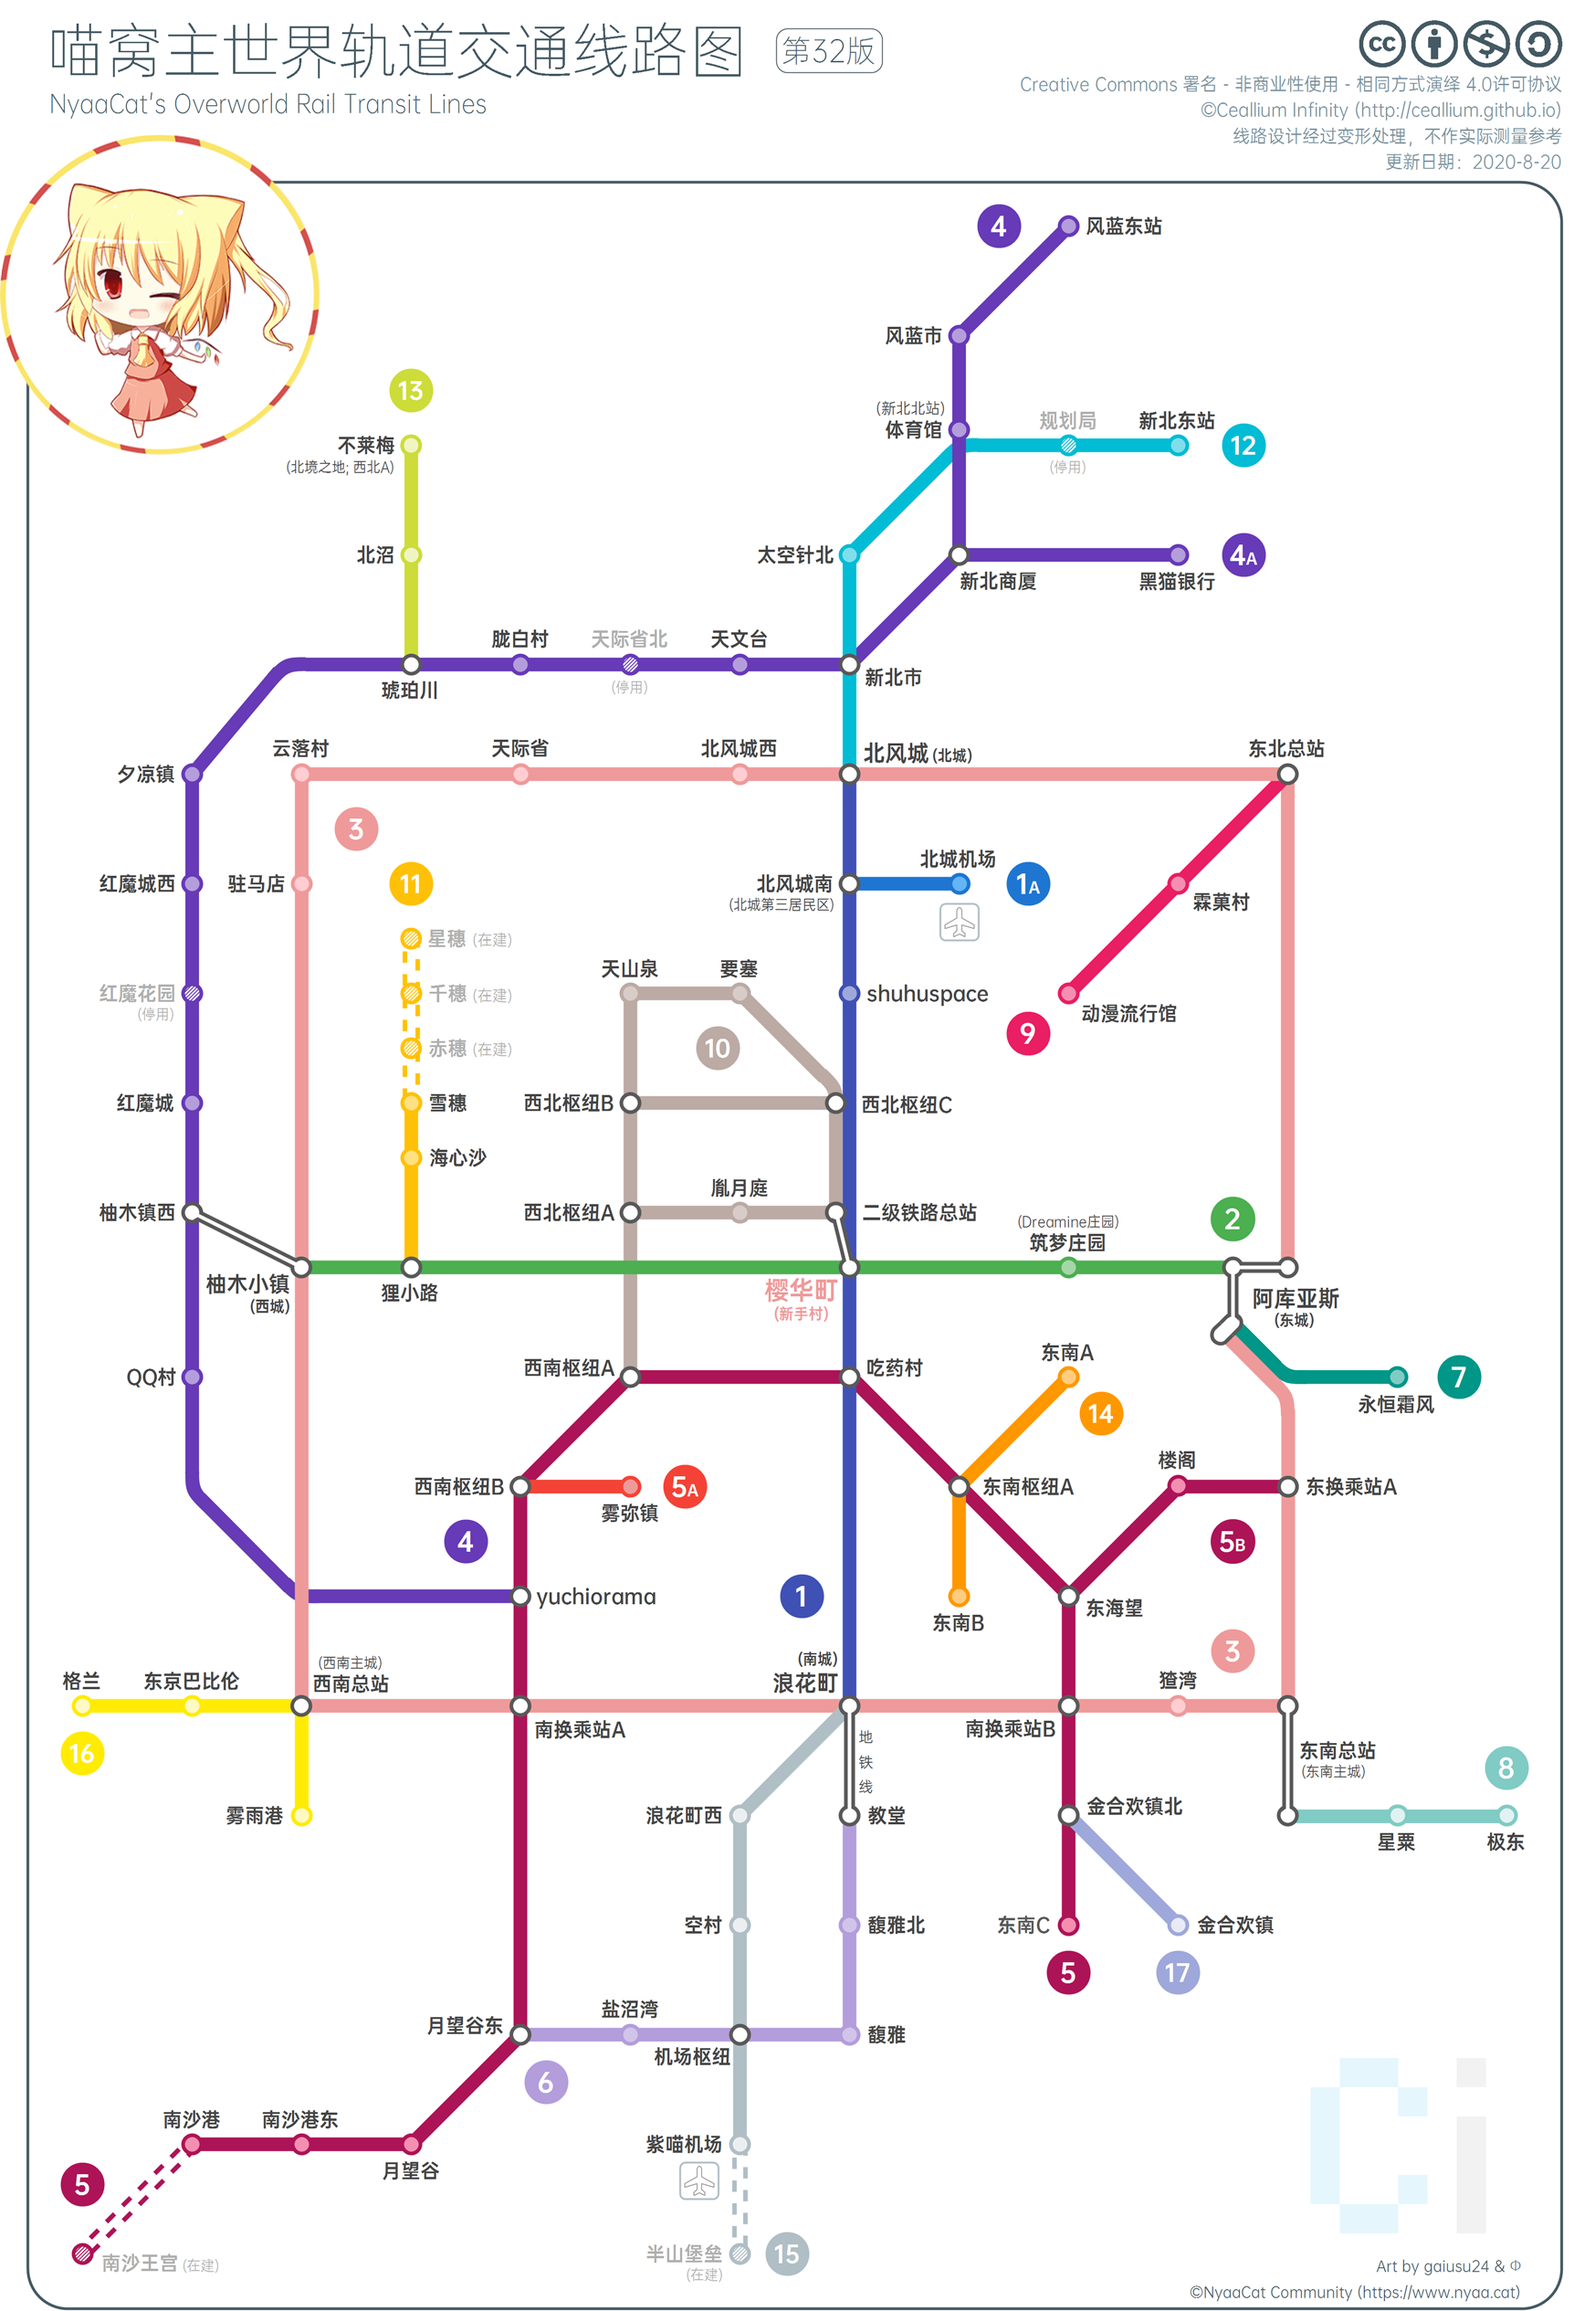
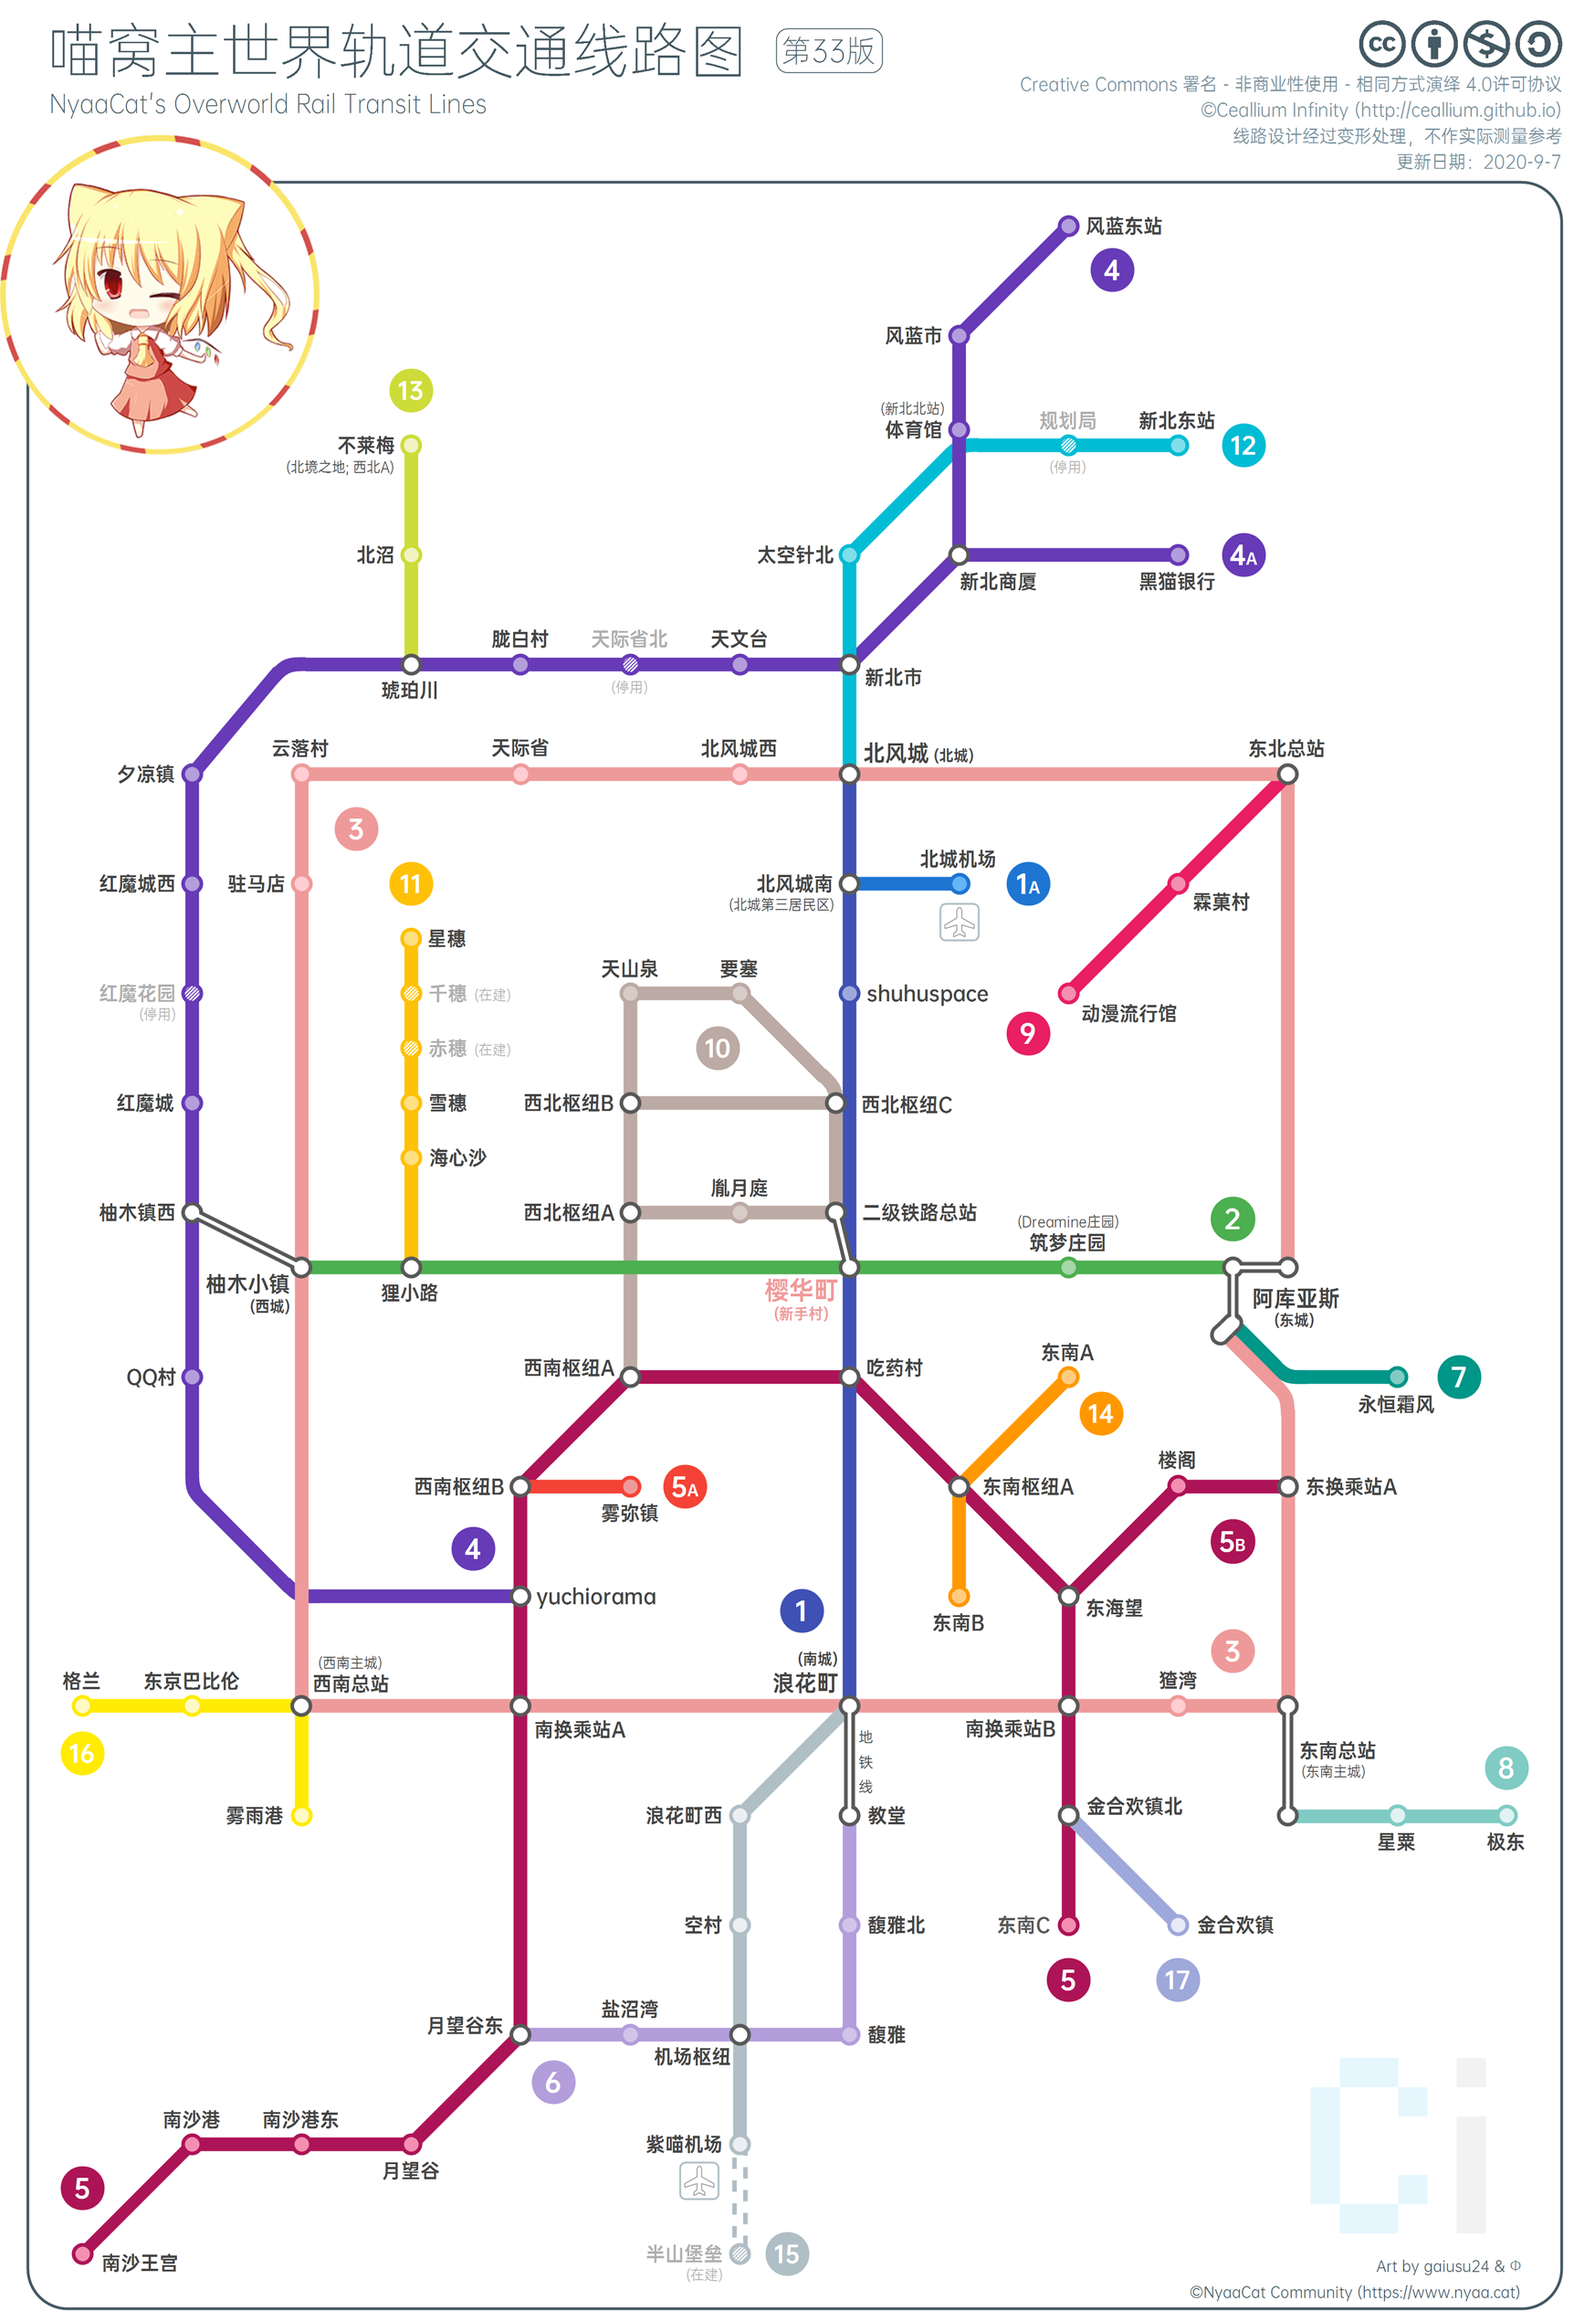
UPDATE Hi-tech Industries, LockettePro, Railway maps Update HTI's map to Rev. September 2020, also fix some details Update Ceallium's Overworld map to Rev. 33 Non-oak signs can be used as locks by pre-editing

diff --git a/nyaa/realms/hitech-industries.md b/nyaa/realms/hitech-industries.md
@@ -31,8 +31,8 @@
 提供可再生能源（海带）的自动生产和输出
 
 - *原名：市政管理中心*  
-- 位置：*`(-7793, 4558)`*
-- 设备建造：*胡萝卜`RDCarrot`*
+- 位置： *`(-7793, 4558)`*
+- 设备建造： *胡萝卜`RDCarrot`*
 - 使用指南：第 4 层收集并烘干海带；第 6~13 层生产海带。
   - 产出的干海带与（原）海带自动装盒，自行取用，建议整盒取用时补充空盒。
 - 维护：
@@ -43,7 +43,7 @@
 NxN 核自动熔炉/烟熏炉/高炉机
 
 - *原名：霍尔集团大楼*
-- 位置：*`(-7730, 4620)`*
+- 位置： *`(-7730, 4620)`*
 - 设备建造：*日酱 `Skill_Sun`*
 - 使用指南：
   - 一层入口处有楼层指示；烟熏炉与高炉分别对特定物品的烧制有加速效果，请自行查阅 Minecraft Wiki 以选择合适的楼层。
@@ -59,7 +59,7 @@ NxN 核自动熔炉/烟熏炉/高炉机
 六联刷铁机
 
 - *原名：莫霍伊大厦*
-- 位置：*`(-7764, 4668)`*
+- 位置： *`(-7764, 4668)`*
 - 设备建造：*日酱 `Skill_Sun`*
 - 使用指南：
   - 在一层或二层均可挂机；一楼仓储有收集的铁锭和红花，请自行取用。
@@ -74,20 +74,20 @@ NxN 核自动熔炉/烟熏炉/高炉机
 #### 综合农业生产基地
 
 - *原名：米兰达大厦*
-- 位置：*`(-7765, 4623)`*
+- 位置： *`(-7765, 4623)`*
 - 用于生产常规农作物。**当前暂未开发。**
 
 #### 综合生物生产基地
 
 - *原名：格雷大厦 A 座*
-- 位置：*`(-7869, 4659)`*
+- 位置： *`(-7869, 4659)`*
 - 用于建设各种生物来源的自动生产设施。一层为大厅和仓储，二层以上自行规划建设产能设施。   
   当前设有：
   -  二层：简易羊毛自动生产装置。
 
 ##### 简易羊毛自动生产装置
 
-- 设备建造：*`CitingNutria`*
+- 设备建造： *`CitingNutria`*
 - 使用说明：设备西侧收集箱子内收集羊毛，请自行取用。
 - 维护：
   - 剪刀补充：像发射器上方的漏斗中补充剪刀。
@@ -95,7 +95,7 @@ NxN 核自动熔炉/烟熏炉/高炉机
 #### 粘液科技大厦
 
 - *原名：格雷大厦 B 座*
-- 位置：*`(-7808, 4605)`*
+- 位置： *`(-7808, 4605)`*
 - 用于生产粘液球。**当前暂未开发。**
 
 #### 综合生产基地
@@ -103,7 +103,7 @@ NxN 核自动熔炉/烟熏炉/高炉机
 小型自动化生产设施，例如铁轨复制机、地毯机等
 
 - *原名：城市规划总署*  
-- 位置：*`(-7769, 4550)`*
+- 位置： *`(-7769, 4550)`*
 - 设备建造：*蘑菇牛 `Nekotora_0w0`*
 - 使用说明：
   - ~铁轨复制机：拉下拉杆开始刷铁轨，离开时请关闭；对应的箱子收集产出的铁轨请自行取用。~
@@ -116,7 +116,7 @@ NxN 核自动熔炉/烟熏炉/高炉机
 村民繁殖基地、交易所
 
 - *原名：曲奇饼*  
-- 位置：*`(-7684, 4596)`*
+- 位置： *`(-7684, 4596)`*
 - 设备建造：*日酱 `Skill_Sun`*，*`etwxr9`*（打折系统）
 - 使用指南：
   - 村民交易所和打折系统位于顶层，繁殖机位于地下，由四个支柱的水电梯上下。
@@ -132,7 +132,7 @@ NxN 核自动熔炉/烟熏炉/高炉机
 
 全窝最大甘蔗田。为节约服务器资源，全自动收割方案被摒弃，转而采用按需启动的联合收割机。
 
-- 位置：*`(-7692, 4507)`*
+- 位置： *`(-7692, 4507)`*
 - 建造：*恋恋`Nekoishi_`*
 - 使用说明
   1. 检查：收割机停止工作时，手动开关应当处于关闭 [power=false] 状态，飞行器应当停靠于甘蔗农场东侧的墙面；如果不是请勿开启，并联系维护者。
@@ -144,25 +144,24 @@ NxN 核自动熔炉/烟熏炉/高炉机
 
 四联刷怪笼刷怪塔。生产苦力怕、女巫、骷髅之主要战利品以及甘蔗。
 
-- 位置：*`(-7659, 4495)`*
+- 位置： *`(-7659, 4495)`*
 - 建造：*琪露喵`Cirneko`* ， *`CitingNutria`* ， *日酱`Skill_Sun`*
 - 使用指南：
   当前设施前门封闭，由一条爬梯 `(-7665,4508)` 下行进入设施内部。地面灯黑，注意安全。  
   挂机最佳地点在主管道周围的手动杀怪点。  
   拉杆开关控制切换自动模式/手动模式；离开时请切换回自动模式。  
 
-#### 猪人塔
+#### 核电站
 
-生产腐肉、金粒及经验球；主世界获取经验最快的场所。
+按照*《命令与征服：红色警戒 3》*中的盟军发电厂，等比例建造的巨型建筑。  
+目前其作为**猪人塔**使用，生产腐肉、金粒及经验球，也是主世界获取经验最快的场所。
 
-- 位置：特区东北边界处 *`(-7297, 4144)`*。  
-- 当前维护者：`Coco`
-
-!> 猪人塔正在整修，当前暂不开放。
+- 位置：特区东部 *`(-7490, 4540)`*
+- 当前维护者：`RDCarrot` `CitingNutria`
 
 #### 狸氏仓储中心
 
-- 位置：*`(-7807, 4768)`*
+- 位置： *`(-7807, 4768)`*
 - 原材料存储、输入和输出。**当前建造中。**
 
 #### 自动化刷石机、木材厂模型
@@ -171,6 +170,10 @@ NxN 核自动熔炉/烟熏炉/高炉机
 - ~~当前已复制到 EpicWorld 出生点西南处 `(-410, 706)`；当地可正常生产，提供**圆石及各种木材（除黑橡木以外）。**~~
 
 !> 出于节约服务器算力的考量，目前推荐在北风城使用「一文大钱」[兑换各种木材](space/npc?id=固定-npc)。
+
+#### 咪乐福
+
+暂无特别用途。
 
 ### 科技特区外公用工业生产设施
 
@@ -210,11 +213,12 @@ NxN 核自动熔炉/烟熏炉/高炉机
 - - -
 ## 在这里，你还可以……
 #### 剿匪！
-受基因研究所影响，特区东部广大沙漠中，时而有一至三支**掠夺者巡逻队**入侵。在确保自身安全的前提下，你可以出城巡逻剿匪；回城前喝牛奶<sup>（以免触发袭击）</sup>。
+~~受基因研究所影响，特区东部广大沙漠中，时而有一至三支**掠夺者巡逻队**入侵。在确保自身安全的前提下，你可以出城巡逻剿匪；回城前喝牛奶<sup>（以免触发袭击）</sup>。~~  
+掠夺者已绝迹，可能受游戏规则 `doPatrolSpawning` 影响。
 
 #### 捉猫！
 炼钢厂、基因研究所周边是主世界已知的少数可生成野猫的场所之二。若有猫站立，且**总是试图逃离你**，则此猫可捉。  
-驯服后应将其带离该设施以外百米，以便野猫持续生成。最佳方式是经由下界带离——可从“筑梦庄园”站安全带出<sup>（或借助“魔力调教棒”从任意站点带出）</sup>。
+驯服后应将其带离该设施以外百米，以便野猫持续生成。最佳方式是经由下界带离——可从“筑梦庄园”站、“南沙港”站等安全带出<sup>（或借助“魔力调教棒”从任意站点带出）</sup>。
 
 #### 游览！
 在城区以北海面，有一处海上科幻要塞；不远处漂浮着主世界最大飞船——“芙兰星舰”。该舰在先前版本用于开设副本、举办活动，现已放弃，无法进入。  
